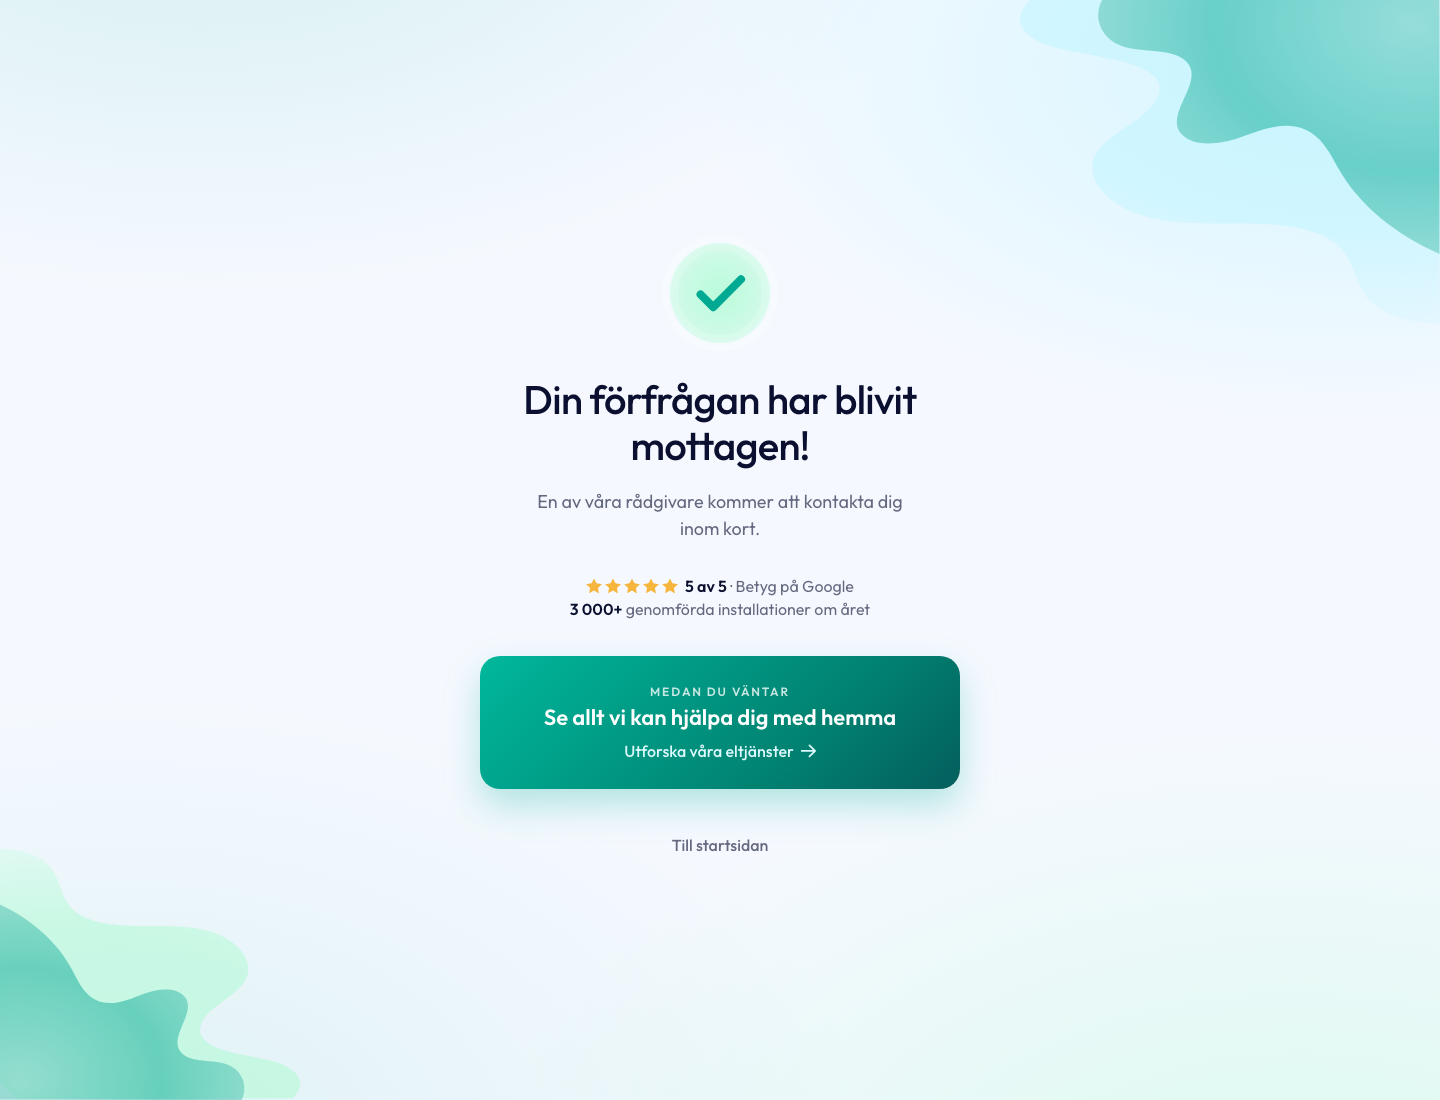
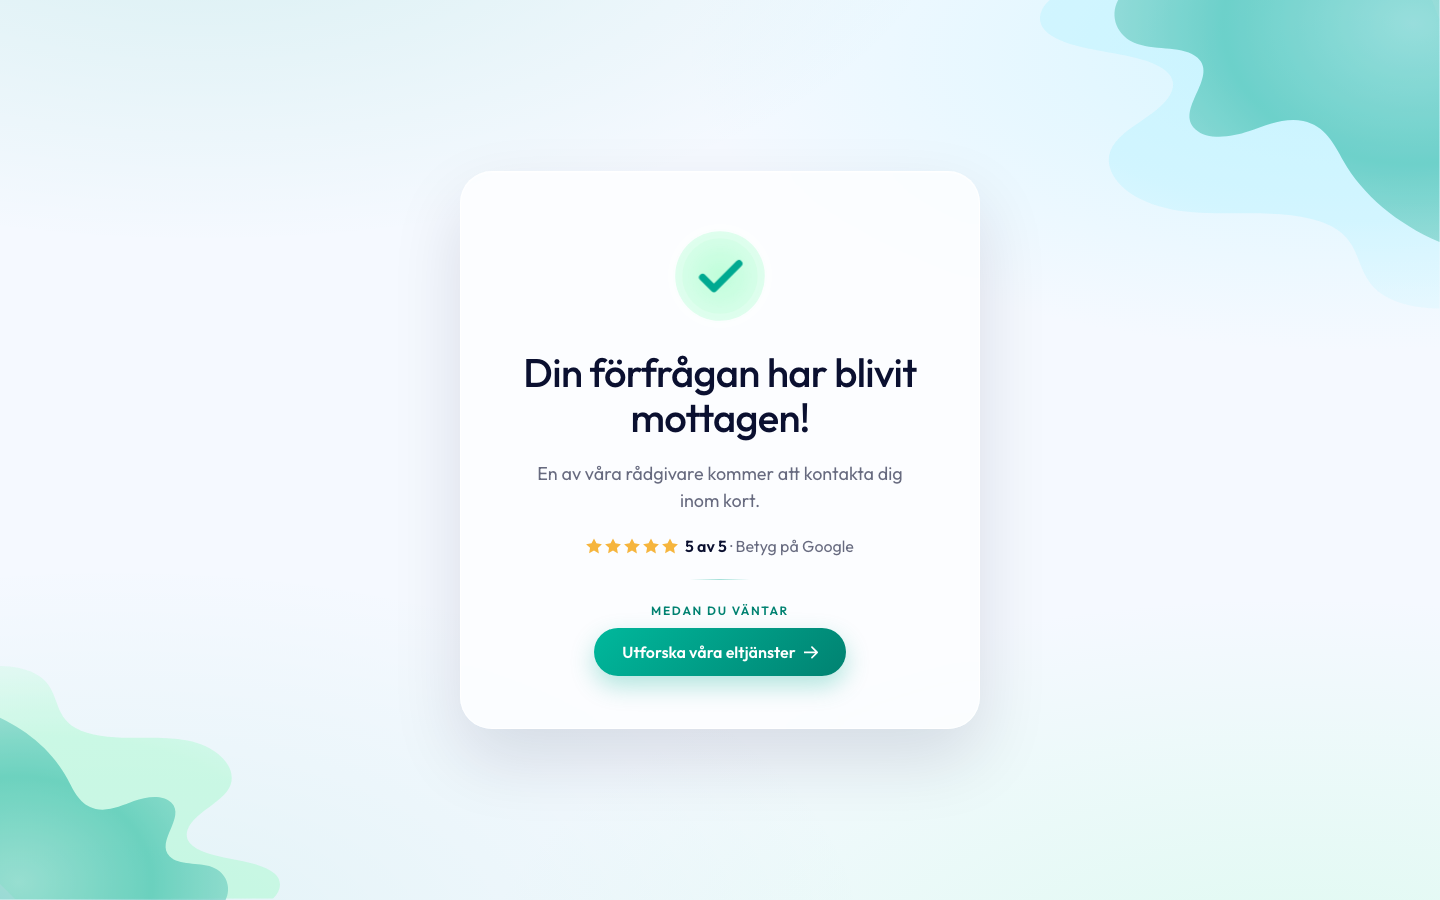
v1 FINAL = direction A (Samlat kort), '3 000+' line removed
Owner chose A and asked to drop '3 000+ genomförda installationer om året'.
Promoted A to the canonical v1 (self-contained v1/index.html + styles.css):
one contained glass card anchors the content, confirmation is the hero,
proof is just the 5-av-5 rating line, 'Medan du väntar' is a proportionate
teal button. Refreshed thumbnails; updated root chooser + omtag source.
Verified desktop + mobile.

diff --git a/v1/styles.css b/v1/styles.css
@@ -1,191 +1,108 @@
 /* =========================================================================
-   Ampy tack-sida — Direction v1 "Ljus & varm" (light aurora)  ·  v3
-   Ladder removed. Original Ampy check restored (pale-mint disc + teal tick),
-   tastefully animated. Full spacing/UX polish for the shorter composition.
-   Palette bound to ../shared/tokens.css.
+   Ampy tack-sida — v1 FINAL (Direction A "Samlat kort")
+   One contained glass card anchors the content; confirmation is the hero,
+   "Medan du väntar" is a proportionate teal button. Tokens from ../shared.
    ========================================================================= */
-
 :root{
   --shadow-primary: rgba(9,11,50,.10);
-  --ink: #0b1030;
-  --ink-soft: rgba(11,16,48,.62);
-  --teal: #00a991;
-  --teal-deep: #018271;
-  --gold: #f6b53d;
-  --ease: cubic-bezier(.16,.84,.44,1);
-  --ease-soft: cubic-bezier(.33,1,.68,1);
+  --ink:#0b1030; --ink-soft:rgba(11,16,48,.62); --ink-faint:rgba(11,16,48,.44);
+  --teal:#00a991; --teal-deep:#018271; --gold:#f6b53d;
+  --ease:cubic-bezier(.16,.84,.44,1); --ease-soft:cubic-bezier(.33,1,.68,1);
 }
-
 *,*::before,*::after{ box-sizing:border-box; }
 html{ font-size:62.5%; }
-
 body{
-  margin:0;
-  min-height:100vh; min-height:100dvh;
-  font-family:"Outfit", system-ui, -apple-system, "Segoe UI", sans-serif;
+  margin:0; min-height:100vh; min-height:100dvh;
+  font-family:"Outfit",system-ui,-apple-system,"Segoe UI",sans-serif;
   color:var(--ink);
   background:
-    radial-gradient(115% 85% at 14% -12%, rgba(0,169,145,.13) 0%, rgba(0,169,145,0) 46%),
-    radial-gradient(105% 75% at 94% 6%,  rgba(182,242,255,.5) 0%, rgba(182,242,255,0) 44%),
-    radial-gradient(120% 95% at 90% 112%, rgba(160,251,201,.3) 0%, rgba(160,251,201,0) 48%),
-    radial-gradient(115% 90% at 8% 104%, rgba(0,169,145,.09) 0%, rgba(0,169,145,0) 46%),
+    radial-gradient(115% 85% at 14% -12%, rgba(0,169,145,.12) 0%, rgba(0,169,145,0) 46%),
+    radial-gradient(105% 75% at 94% 6%,  rgba(182,242,255,.48) 0%, rgba(182,242,255,0) 44%),
+    radial-gradient(120% 95% at 90% 112%, rgba(160,251,201,.28) 0%, rgba(160,251,201,0) 48%),
+    radial-gradient(115% 90% at 8% 104%, rgba(0,169,145,.08) 0%, rgba(0,169,145,0) 46%),
     var(--apsky-mist);
   background-attachment:fixed;
-  -webkit-font-smoothing:antialiased;
-  text-rendering:optimizeLegibility;
+  -webkit-font-smoothing:antialiased; text-rendering:optimizeLegibility;
 }
+.aurora{ position:fixed; z-index:0; pointer-events:none; user-select:none; opacity:.8; }
+.aurora--top{ top:0; right:0; width:clamp(20rem,30vw,40rem); height:auto; }
+.aurora--bottom{ bottom:0; left:0; width:clamp(15rem,22vw,28rem); height:auto; }
 
-/* ---- decorative aurora corner art -------------------------------------- */
-.aurora{ position:fixed; z-index:0; pointer-events:none; user-select:none; opacity:.82; }
-.aurora--top{ top:0; right:0; width:clamp(22rem, 32vw, 42rem); height:auto; }
-.aurora--bottom{ bottom:0; left:0; width:clamp(16rem, 24vw, 30rem); height:auto; }
+.page{ position:relative; z-index:1; min-height:100vh; min-height:100dvh;
+  display:flex; align-items:center; justify-content:center; padding:clamp(2.4rem,4vw,4.8rem) var(--apspace-m); }
 
-/* ---- layout ------------------------------------------------------------- */
-.page{
-  position:relative; z-index:1;
-  min-height:100vh; min-height:100dvh;
-  display:flex; align-items:center; justify-content:center;
-  padding:clamp(4rem,6vw,7.2rem) var(--apspace-l);
+/* one contained card = the anchor */
+.card{
+  position:relative; z-index:1; width:100%; max-width:52rem;
+  display:flex; flex-direction:column; align-items:center; text-align:center;
+  gap:clamp(1.8rem,2.4vw,2.4rem);
+  background:rgba(255,255,255,.72);
+  border:1px solid rgba(255,255,255,.9);
+  border-radius:var(--apradius-xl);
+  box-shadow:0 3rem 7rem rgba(9,11,50,.12), inset 0 1px 0 rgba(255,255,255,.6);
+  backdrop-filter:blur(16px) saturate(1.1); -webkit-backdrop-filter:blur(16px) saturate(1.1);
+  padding:clamp(3.2rem,4.5vw,5.2rem) clamp(2.8rem,4vw,5.6rem);
 }
-.stack{
-  width:100%;
-  max-width:48rem;
-  display:flex; flex-direction:column; align-items:center;
-  text-align:center;
-  gap:clamp(2.8rem,3.6vw,3.6rem);
-}
+.intro{ display:flex; flex-direction:column; align-items:center; gap:clamp(1.6rem,2.2vw,2.2rem); }
 
-.logo{ width:auto; height:clamp(2.8rem,3.4vw,3.4rem); }
-
-/* confirmation group — logo/check/heading read as one calm unit ---------- */
-.intro{
-  display:flex; flex-direction:column; align-items:center;
-  gap:clamp(1.8rem,2.6vw,2.6rem);
-}
-
-/* ---- the current Ampy check, animated ---------------------------------- */
-.check{
-  position:relative;
-  width:clamp(9.6rem,12vw,11.6rem);
-  height:clamp(9.6rem,12vw,11.6rem);
-  display:grid; place-items:center;
-}
+/* the living pale-mint check */
+.check{ position:relative; width:clamp(8.8rem,11vw,10.4rem); height:clamp(8.8rem,11vw,10.4rem); display:grid; place-items:center; }
 .check__svg{ position:relative; z-index:2; width:100%; height:100%; overflow:visible; }
-/* soft mint breathing halo behind the disc — subtle life, not a light show */
-.check__halo{
-  position:absolute; inset:6%; z-index:1; border-radius:50%;
-  background:radial-gradient(circle, rgba(85,255,154,.30) 0%, rgba(85,255,154,0) 72%);
-  animation:halo 4s var(--ease-soft) infinite;
-}
+.check__halo{ position:absolute; inset:6%; z-index:1; border-radius:50%;
+  background:radial-gradient(circle, rgba(85,255,154,.30) 0%, rgba(85,255,154,0) 72%); animation:halo 4s var(--ease-soft) infinite; }
 .check__disc{ transform-origin:center; animation:disc-in 640ms var(--ease) both; }
-.check__tick{
-  stroke-dasharray:120; stroke-dashoffset:120;
-  animation:tick 560ms var(--ease) 300ms both;
-}
+.check__tick{ stroke-dasharray:120; stroke-dashoffset:120; animation:tick 560ms var(--ease) 300ms both; }
 @keyframes disc-in{ 0%{ transform:scale(.62); opacity:0; } 62%{ transform:scale(1.05); } 100%{ transform:scale(1); opacity:1; } }
 @keyframes tick{ to{ stroke-dashoffset:0; } }
-@keyframes halo{ 0%{ transform:scale(.8); opacity:0; } 34%{ opacity:.85; } 100%{ transform:scale(1.4); opacity:0; } }
+@keyframes halo{ 0%{ transform:scale(.8); opacity:0; } 34%{ opacity:.8; } 100%{ transform:scale(1.4); opacity:0; } }
 
-/* ---- hero --------------------------------------------------------------- */
-.hero{ display:flex; flex-direction:column; gap:var(--apspace-s); width:100%; }
-.hero__title{
-  margin:0;
-  font-size:var(--aptext-2-5xl);       /* smaller than before, per owner */
-  line-height:1.14;
-  font-weight:500;                     /* less bold, per owner */
-  letter-spacing:-.018em;
-  color:var(--ink);
-  white-space:nowrap;                  /* honour the manual <br>; never re-wrap line 1 */
-}
-.hero__sub{
-  margin:0 auto;
-  max-width:none;
-  font-size:var(--aptext-m);
-  line-height:1.5;
-  font-weight:400;
-  color:var(--ink-soft);
-  white-space:nowrap;                  /* honour the manual <br> */
-}
+/* hero */
+.hero{ display:flex; flex-direction:column; gap:var(--apspace-s); }
+.hero__title{ margin:0; font-size:var(--aptext-2-5xl); line-height:1.14; font-weight:500; letter-spacing:-.018em; color:var(--ink); white-space:nowrap; }
+.hero__sub{ margin:0; font-size:var(--aptext-m); line-height:1.5; font-weight:400; color:var(--ink-soft); white-space:nowrap; }
 
-/* ---- proof — plain text on the light surface (no container) ------------- */
-.proof{
-  width:100%;
-  display:flex; flex-direction:column; align-items:center;
-  gap:.5rem;
-}
-.proof__rating{
-  margin:0;
-  display:flex; align-items:center; justify-content:center;
-  flex-wrap:wrap; gap:.3rem .7rem;
-}
+/* proof line (plain text, rating only) */
+.proof{ display:flex; flex-direction:column; align-items:center; gap:.5rem; }
+.proof__rating{ margin:0; display:flex; align-items:center; justify-content:center; flex-wrap:wrap; gap:.3rem .7rem; }
 .stars{ display:inline-flex; gap:.3rem; }
 .stars svg{ width:1.6rem; height:1.6rem; fill:var(--gold); }
 .proof__ratingtext{ font-size:var(--aptext-sm); font-weight:400; color:var(--ink-soft); line-height:1; }
 .proof__ratingtext strong{ font-weight:600; color:var(--ink); }
-.proof__count{
-  margin:0;
-  font-size:var(--aptext-sm); font-weight:400; color:var(--ink-soft); line-height:1.3;
-  text-wrap:balance;
-}
-.proof__count strong{ font-weight:600; color:var(--ink); }
 
-/* ---- while you wait — centred ------------------------------------------ */
-.wait{
-  width:100%;
-  display:flex; flex-direction:column; align-items:center;
-  gap:.5rem;
-  text-decoration:none; text-align:center;
-  padding:clamp(2.2rem,3.2vw,2.8rem) var(--apspace-l);
-  border-radius:var(--apradius-l);
-  color:#fff;
-  background:linear-gradient(135deg, #00b89c 0%, #018271 66%, #0b1030 175%);
-  box-shadow:0 1.6rem 3.6rem rgba(0,169,145,.28);
+.divider{ width:6rem; height:1px; background:linear-gradient(90deg, transparent, rgba(0,169,145,.35), transparent); border:0; margin:0; }
+
+/* proportionate primary action — not a giant block */
+.cta-wrap{ display:flex; flex-direction:column; align-items:center; gap:1rem; }
+.cta-eyebrow{ font-size:var(--aptext-xs); font-weight:600; text-transform:uppercase; letter-spacing:.14em; color:var(--teal-deep); }
+.cta{
+  display:inline-flex; align-items:center; gap:.8rem; text-decoration:none;
+  padding:1.4rem 2.8rem; border-radius:var(--apradius-full);
+  font-size:var(--aptext-sm); font-weight:600; color:#fff;
+  background:linear-gradient(135deg,#00b89c,#018271);
+  box-shadow:0 1rem 2.4rem rgba(0,169,145,.3);
   transition:transform .2s var(--ease), box-shadow .2s var(--ease);
 }
-.wait:hover{ transform:translateY(-2px); box-shadow:0 2.2rem 4.6rem rgba(0,169,145,.36); }
-.wait__eyebrow{
-  font-size:var(--aptext-xs); font-weight:600;
-  text-transform:uppercase; letter-spacing:.15em; color:rgba(255,255,255,.78);
-}
-.wait__line{ font-size:var(--aptext-ml); font-weight:600; line-height:1.25; color:#fff; }
-.wait__link{
-  display:inline-flex; align-items:center; gap:.7rem;
-  margin-top:.5rem;
-  font-size:var(--aptext-sm); font-weight:500; color:var(--apaqua-frost);
-}
-.wait__arrow{ width:1.5rem; height:1.4rem; fill:currentColor; transition:transform .2s var(--ease); }
-.wait:hover .wait__arrow{ transform:translateX(4px); }
+.cta:hover{ transform:translateY(-2px); box-shadow:0 1.6rem 3rem rgba(0,169,145,.38); }
+.cta svg{ width:1.4rem; height:1.3rem; fill:currentColor; transition:transform .2s var(--ease); }
+.cta:hover svg{ transform:translateX(3px); }
 
-/* ---- ghost back-to-home ------------------------------------------------- */
-.ghost{
-  font-size:var(--aptext-sm); font-weight:500; color:var(--ink-soft);
-  text-decoration:none;
-  padding:var(--apspace-2xs) var(--apspace-s);
-  border-radius:var(--apradius-full);
-  transition:color .18s ease, background .18s ease;
-}
+/* ghost, below the card */
+.ghost{ position:relative; z-index:1; display:block; text-align:center; margin-top:2rem;
+  font-size:var(--aptext-sm); font-weight:500; color:var(--ink-soft); text-decoration:none;
+  padding:var(--apspace-2xs) var(--apspace-s); border-radius:var(--apradius-full); transition:color .18s ease, background .18s ease; }
 .ghost:hover{ color:var(--teal-deep); background:rgba(0,169,145,.08); }
 
-/* ---- focus-visible ------------------------------------------------------ */
 a:focus-visible{ outline:3px solid var(--teal); outline-offset:3px; border-radius:var(--apradius-m); }
 
-/* ---- mobile ------------------------------------------------------------- */
 @media (max-width:520px){
-  .page{ padding:clamp(3.6rem,9vw,5.2rem) var(--apspace-m); }
-  .stack{ max-width:40rem; gap:2.8rem; }
-  /* mobile: wrap naturally. <br> hidden (space before it is preserved, so no word-join). */
+  .card{ padding:3.6rem 2.4rem; gap:2rem; border-radius:var(--apradius-l); }
   .hero__title{ font-size:var(--aptext-xl); white-space:normal; text-wrap:balance; }
   .hero__sub{ font-size:var(--aptext-m); white-space:normal; text-wrap:balance; }
   .hero__title br, .hero__sub br{ display:none; }
-  .aurora--top{ width:50vw; opacity:.78; }
-  .aurora--bottom{ width:42vw; opacity:.72; }
-  .proof__count{ font-size:var(--aptext-m); }
 }
 
-/* ---- reduced motion ----------------------------------------------------- */
 @media (prefers-reduced-motion: reduce){
   .check__disc,.check__tick,.check__halo{ animation:none !important; }
-  .check__tick{ stroke-dashoffset:0; }
-  .check__halo{ opacity:.5; transform:scale(1.1); }
-  .wait,.wait__arrow,.ghost{ transition:none; }
+  .check__tick{ stroke-dashoffset:0; } .check__halo{ opacity:.5; transform:scale(1.1); }
+  .cta,.cta svg,.ghost{ transition:none; }
 }

diff --git a/v1/index.html b/v1/index.html
@@ -12,31 +12,26 @@
   <link rel="stylesheet" href="styles.css">
 </head>
 <body>
-  <!-- decorative aurora corner art (recolored to teal/aurora) -->
   <img class="aurora aurora--top" src="assets/aurora-top.svg" alt="" aria-hidden="true">
   <img class="aurora aurora--bottom" src="assets/aurora-bottom.svg" alt="" aria-hidden="true">
 
   <main class="page">
-    <div class="stack">
-
+    <div class="card">
       <div class="intro">
-        <!-- the current Ampy check (pale-mint disc + teal tick), animated: tick draws in -->
         <div class="check" aria-hidden="true">
           <span class="check__halo"></span>
-          <svg class="check__svg" width="120" height="120" viewBox="0 0 174 174" fill="none" xmlns="http://www.w3.org/2000/svg">
+          <svg class="check__svg" width="112" height="112" viewBox="0 0 174 174" fill="none" xmlns="http://www.w3.org/2000/svg">
             <rect class="check__disc" x="12" y="12" width="150" height="150" rx="75" fill="#55FF9A" fill-opacity="0.2" stroke="#ffffff" stroke-opacity="0.18" stroke-width="24"/>
             <path class="check__tick" d="M118.582 66.3379L76.862 108.207L57.8984 89.1754" stroke="#00A991" stroke-width="12" stroke-linecap="round" stroke-linejoin="round"/>
           </svg>
         </div>
-
         <header class="hero">
           <h1 class="hero__title">Din förfrågan har blivit <br>mottagen!</h1>
           <p class="hero__sub">En av våra rådgivare kommer att kontakta dig <br>inom kort.</p>
         </header>
       </div>
 
-      <!-- proof — plain text on the light surface (no container) -->
-      <div class="proof" aria-label="Omdöme och erfarenhet">
+      <div class="proof" aria-label="Omdöme">
         <p class="proof__rating">
           <span class="stars" role="img" aria-label="5 av 5 i betyg på Google">
             <svg viewBox="0 0 24 24" aria-hidden="true"><path d="M12 .587l3.668 7.431 8.2 1.192-5.934 5.784 1.401 8.166L12 18.896l-7.335 3.864 1.401-8.166L.132 9.21l8.2-1.192z"/></svg>
@@ -47,21 +42,19 @@
           </span>
           <span class="proof__ratingtext"><strong>5 av 5</strong> · Betyg på Google</span>
         </p>
-        <p class="proof__count"><strong>3&nbsp;000+</strong> genomförda installationer om året</p>
       </div>
 
-      <!-- while you wait — centred -->
-      <a class="wait" href="https://ampy.se/elservice">
-        <span class="wait__eyebrow">Medan du väntar</span>
-        <span class="wait__line">Se allt vi kan hjälpa dig med hemma</span>
-        <span class="wait__link">Utforska våra eltjänster
-          <svg class="wait__arrow" viewBox="0 0 17 15" aria-hidden="true"><path d="M16.7071 8.07112C17.0976 7.68059 17.0976 7.04743 16.7071 6.65691L10.3431 0.292945C9.95262 -0.0975793 9.31946 -0.0975792 8.92893 0.292945C8.53841 0.683469 8.53841 1.31663 8.92893 1.70716L14.5858 7.36401L8.92893 13.0209C8.53841 13.4114 8.53841 14.0446 8.92893 14.4351C9.31946 14.8256 9.95262 14.8256 10.3431 14.4351L16.7071 8.07112ZM0 7.36401L8.74228e-08 8.36401L16 8.36401L16 7.36401L16 6.36401L-8.74228e-08 6.36401L0 7.36401Z"/></svg>
-        </span>
-      </a>
+      <hr class="divider">
 
-      <a class="ghost" href="https://ampy.se/">Till startsidan</a>
-
+      <div class="cta-wrap">
+        <span class="cta-eyebrow">Medan du väntar</span>
+        <a class="cta" href="https://ampy.se/elservice">Utforska våra eltjänster
+          <svg viewBox="0 0 17 15" aria-hidden="true"><path d="M16.7071 8.07112C17.0976 7.68059 17.0976 7.04743 16.7071 6.65691L10.3431 0.292945C9.95262 -0.0975793 9.31946 -0.0975792 8.92893 0.292945C8.53841 0.683469 8.53841 1.31663 8.92893 1.70716L14.5858 7.36401L8.92893 13.0209C8.53841 13.4114 8.53841 14.0446 8.92893 14.4351C9.31946 14.8256 9.95262 14.8256 10.3431 14.4351L16.7071 8.07112ZM0 7.36401L8.74228e-08 8.36401L16 8.36401L16 7.36401L16 6.36401L-8.74228e-08 6.36401L0 7.36401Z"/></svg>
+        </a>
+      </div>
     </div>
   </main>
+
+  <a class="ghost" href="https://ampy.se/">Till startsidan</a>
 </body>
 </html>

diff --git a/index.html b/index.html
@@ -77,7 +77,7 @@
         <div class="card__body">
           <span class="card__eyebrow">Riktning 1</span>
           <h2 class="card__name">Ljus &amp; varm</h2>
-          <p class="card__desc">Ljus sky-mist med mjuk teal-aurora. Vald riktning, slutputsad: Ampys egen animerade check, ren rubrik + paragraf, mörkt 5-av-5-proofkort (1:1) och centrerad "Medan du väntar". Stram typografi och spacing genomgående.</p>
+          <p class="card__desc">SLUTVERSION (omtag A "Samlat kort"): ett lugnt glaskort som ankrar innehållet, Ampys egen animerade check, ren rubrik + paragraf, ★ 5 av 5 · Betyg på Google som lätt text, och en proportionerlig "Medan du väntar"-knapp. Rätt hierarki, inget flytande i tomrum.</p>
           <span class="rec">★ Vald riktning</span>
           <div class="card__links">
             <a class="btn btn--primary" href="v1/index.html">Öppna helskärm →</a>

diff --git a/omtag/a.html b/omtag/a.html
@@ -82,7 +82,6 @@
           </span>
           <span class="proof__ratingtext"><strong>5 av 5</strong> · Betyg på Google</span>
         </p>
-        <p class="proof__count"><strong>3&nbsp;000+</strong> genomförda installationer om året</p>
       </div>
 
       <hr class="divider">